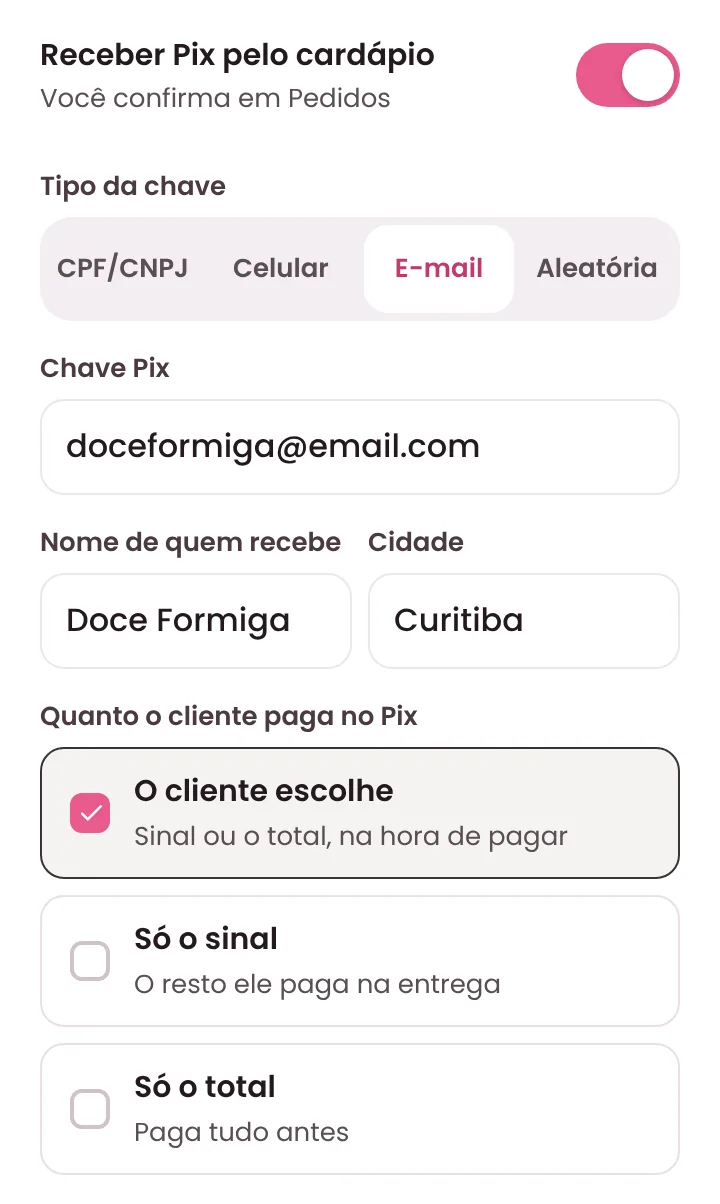
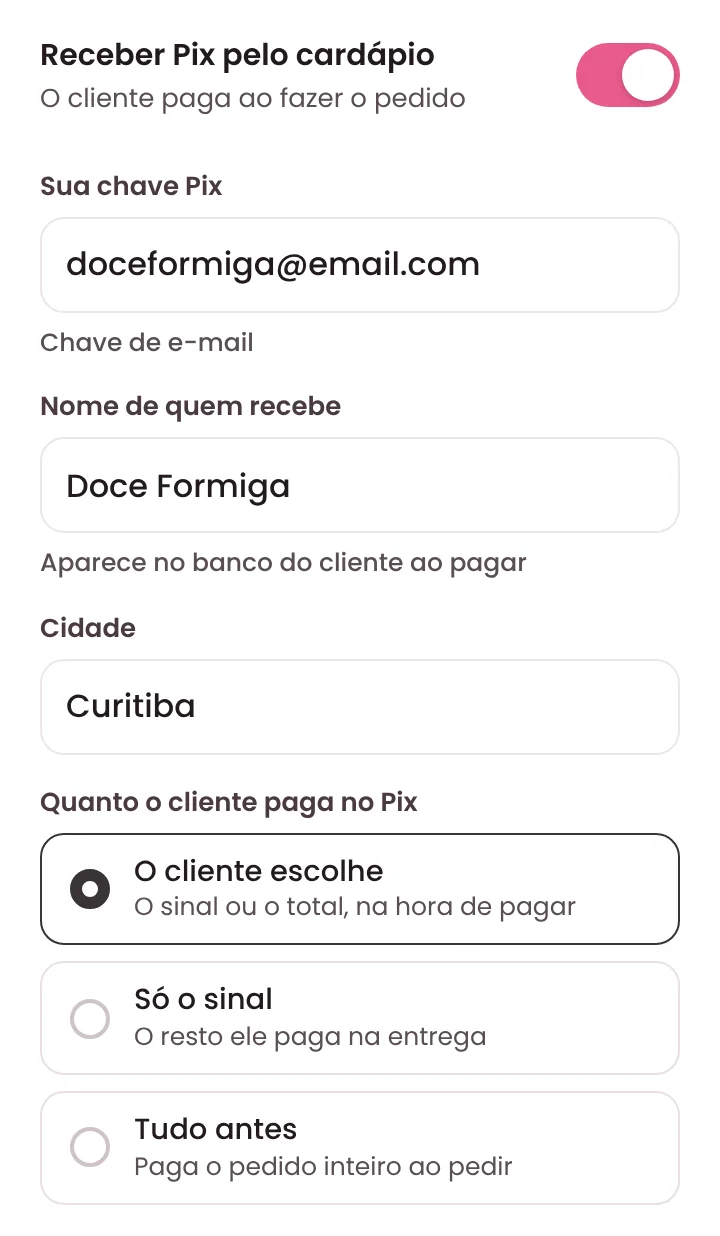
6.10: Pedidos mais limpos, Pix e Descrição mais fáceis, página do PRO corrigida
- Pedidos: "Sem nome" no lugar de "Cliente não informado"
- Botão forte só no que é de hoje, atrasado ou pra aceitar; os de outros dias ficam claros
- Agendados: próximos 7 dias por dia; o resto em "Mais pra frente" (fechado). Buscando ou filtrando, mostra tudo
- Concluídos: últimos 7 dias + "Ver mais antigos" (antes carregava todos os entregues)
- Pix pelo cardápio: o app reconhece o tipo da chave (sem "Tipo da chave"), campos inteiros, escolha em caixinhas
- Sobre a loja: descrição maior, cresce com o texto e o "Gerar com IA" dentro da caixa (igual ao produto)
- PRO: "Complementos sem limite" e "PDFs só com a sua marca" (o grátis também tem os dois)
- Ajuda com as imagens novas

Claude-Session: https://claude.ai/code/session_01Tr1mYrTU9rTShFnbh3vuaV

diff --git a/src/pages/Pedidos.tsx b/src/pages/Pedidos.tsx
@@ -3,7 +3,7 @@ import { COMO_PEDIDOS, TOUR_PEDIDOS } from "@/lib/comoTelas";
 import { compartilharTexto } from "@/lib/compartilharCardapio";
 import { montarMensagem, dadosDoPedido } from '@/lib/mensagens'
 import { useLocation, useNavigate, useNavigationType } from 'react-router-dom'
-import { Cake, CalendarDots, Funnel, Kanban, Lightning, ListBullets, MagnifyingGlass, Plus, Receipt, WarningCircle, X } from '@phosphor-icons/react'
+import { Cake, CalendarDots, CaretDown, Funnel, Kanban, Lightning, ListBullets, MagnifyingGlass, Plus, Receipt, WarningCircle, X } from '@phosphor-icons/react'
 import AppPageHeader from '@/components/AppPageHeader'
 import { Botao, BotaoIcone, Janela, TelaVazia, Titulo, avisar, confirmar } from '@/components/base'
 import FinalizarPedidoSheet from '@/components/pedidos/FinalizarPedidoSheet'
@@ -479,6 +479,11 @@ export default function Pedidos() {
   }, [pedidos, busca, aba, statusSelecionados, periodoFiltro, dataInicio, dataFim, filtroAguardando, filtroAtrasados, hoje, computador]) // "hoje": os filtros de data e de atrasado andam com o dia
 
   // Agrupado por dia: Atrasado, Hoje, Amanhã, os próximos dias, Sem data e Concluídos
+  // (6.10) lista mais curta: agendados mostram os próximos 7 dias (o resto fica em "Mais pra frente", fechado)
+  // e concluídos os últimos 7 dias ("Ver mais antigos" traz mais 30). Buscando ou filtrando, mostra tudo.
+  const [verDepois, setVerDepois] = useState(false)
+  const [diasConcluidos, setDiasConcluidos] = useState(7)
+  const abreTudo = !!busca.trim() || periodoFiltro !== 'todos' || statusSelecionados.length !== STATUS_PADRAO.length || !STATUS_PADRAO.every(x => statusSelecionados.includes(x))
   const agrupar = useCallback((lista: Pedido[], cel = false) => {
     // (11/10) "hoje" vem do useDiaAtual: com a lista aberta de um dia pro outro, os grupos se refazem sozinhos
     const [ah, mh, dh] = hoje.split('-').map(Number)
@@ -503,12 +508,20 @@ export default function Pedidos() {
     add('antes', 'De dias anteriores', passados.filter(p => !pedidoAtrasado(p, hojeIso)))
     add('hoje', `Hoje · ${rot(hojeIso)}`, ativos.filter(p => p.data_entrega === hojeIso))
     add('amanha', `Amanhã · ${rot(amanhaIso)}`, ativos.filter(p => p.data_entrega === amanhaIso))
+    const semanaIso = dataISO(new Date(ah, mh - 1, dh + 6))
+    const porDia = (lst: Pedido[]) => [...new Set(lst.map(p => p.data_entrega))].forEach(d => { const t = rot(d); add('d' + d, t.charAt(0).toUpperCase() + t.slice(1), lst.filter(p => p.data_entrega === d)) })
     const futuros = ativos.filter(p => p.data_entrega && p.data_entrega > amanhaIso)
-    ;[...new Set(futuros.map(p => p.data_entrega))].forEach(d => { const t = rot(d); add('d' + d, t.charAt(0).toUpperCase() + t.slice(1), futuros.filter(p => p.data_entrega === d)) })
+    porDia(futuros.filter(p => abreTudo || p.data_entrega <= semanaIso))
+    const depois = abreTudo ? [] : futuros.filter(p => p.data_entrega > semanaIso)
+    if (depois.length) { if (verDepois) porDia(depois); else g.push({ chave: 'depois', titulo: 'Mais pra frente', itens: depois }) }
     add('semdata', 'Sem data', ativos.filter(p => !p.data_entrega))
-    const fim = lista.filter(terminou).sort((a, b) => -porHora(a, b))
+    // concluídos: só os últimos dias (com 1.500 entregues a lista ficava enorme e lenta)
+    const corte = dataISO(new Date(ah, mh - 1, dh - (diasConcluidos - 1)))
+    const fimTodos = lista.filter(terminou).sort((a, b) => -porHora(a, b))
+    const fim = abreTudo ? fimTodos : fimTodos.filter(p => !p.data_entrega || p.data_entrega.slice(0, 10) >= corte)
+    const fimFora = fimTodos.length - fim.length
     if (!cel) add('concluidos', 'Concluídos', fim)
-    else if (fim.length) {
+    else if (fimTodos.length) {
       // (6.09) celular: Concluídos separado por dia, com "Hoje" sempre em cima (o número da aba é o de hoje)
       const diaDe = (p: Pedido) => String(p.data_entrega || '').slice(0, 10)
       const titulo = (d: string) => {
@@ -522,8 +535,9 @@ export default function Pedidos() {
       // hoje sempre primeiro, mesmo quando tem entrega marcada pra frente
       g.sort((a, b) => Number(b.chave === 'c-hoje') - Number(a.chave === 'c-hoje'))
     }
+    if (fimFora > 0) g.push({ chave: 'antigos', titulo: 'Ver mais antigos', itens: [] })
     return g
-  }, [hoje])
+  }, [hoje, abreTudo, verDepois, diasConcluidos])
   const grupos = useMemo(() => agrupar(pedidosFiltrados), [agrupar, pedidosFiltrados])
   // celular: quantos em cada aba, a aba escolhida (ou a primeira com pedido) e os grupos dela
   const nSit = useMemo(() => {
@@ -560,6 +574,10 @@ export default function Pedidos() {
   const nFiltros = (statusSelecionados.length !== STATUS_PADRAO.length || !STATUS_PADRAO.every(s => statusSelecionados.includes(s)) ? 1 : 0) + (periodoFiltro !== 'todos' ? 1 : 0)
   const filtrando = nFiltros > 0 || !!busca.trim()
   const limparTudo = () => { setBusca(''); setStatusSelecionados(STATUS_PADRAO); setPeriodoFiltro('todos'); setDataInicio(''); setDataFim('') }
+  // (6.10) "Mais pra frente" (fechado) e "Ver mais antigos" no fim da lista
+  const BotaoMais = ({ g }: { g: { chave: string; itens: Pedido[] } }) => g.chave === 'depois'
+    ? <button type="button" className="pd-mais" onClick={() => setVerDepois(true)}><span><b>Mais pra frente</b><small>{g.itens.length === 1 ? '1 pedido' : `${g.itens.length} pedidos`} depois de 7 dias</small></span><CaretDown size={18} weight="bold" aria-hidden="true" /></button>
+    : <button type="button" className="pd-mais pd-mais--link" onClick={() => setDiasConcluidos(d => d + 30)}><b>Ver mais antigos</b></button>
   const nEncomendas = pedidos.filter(p => (p.tipo_venda || 'encomenda') === 'encomenda').length
   const nPronta = pedidos.filter(p => p.tipo_venda === 'pronta_entrega').length
   const sairDoFiltroRapido = () => { setFiltroAguardando(false); setFiltroAtrasados(false); navigate('/pedidos', { replace: true }) }
@@ -665,6 +683,7 @@ export default function Pedidos() {
               <div className="pd-grupos pdk-grupos">
                 {gruposCel.map(g => {
                   const unico = gruposCel.length === 1 && (g.chave === 'aceitar' || g.chave === 'concluidos')
+                  if (g.chave === 'depois' || g.chave === 'antigos') return <BotaoMais key={g.chave} g={g} />
                   return (
                     <section key={g.chave} className="pd-grupo" aria-label={g.titulo}>
                       {g.chave === 'aceitar' ? (
@@ -681,7 +700,7 @@ export default function Pedidos() {
               )
             ) : (
               <div className="pd-grupos">
-                {grupos.map(g => (
+                {grupos.map(g => g.chave === 'depois' || g.chave === 'antigos' ? <BotaoMais key={g.chave} g={g} /> : (
                   <section key={g.chave} className="pd-grupo" aria-label={g.titulo}>
                     <Titulo contagem={g.itens.length} tom={g.chave === 'atrasado' ? 'vermelho' : undefined} apoio={g.chave === 'aceitar' ? (g.itens.length === 1 ? 'Chegou pelo cardápio. Aceite para entrar na sua agenda.' : 'Chegaram pelo cardápio. Aceite para entrar na sua agenda.') : undefined}>{g.titulo}</Titulo>
                     <div className="pdl-tabela" role="table">{g.itens.map(p => <LinhaPedido key={p.id} {...props(p)} comDia={g.chave === 'concluidos' || g.chave === 'semdata' || g.chave === 'antes'} />)}</div>

diff --git a/src/pages/CheckoutConfigPage.tsx b/src/pages/CheckoutConfigPage.tsx
@@ -6,7 +6,7 @@ import { CTA_PRO } from "@/lib/beneficiosPro";
 import { Check, Crown, PencilSimple, Plus, Trash, QrCode, ShareNetwork, Ticket, Truck, Wallet, WarningCircle, PixLogo, Money, CreditCard, Storefront, Moped, Motorcycle, Car, ChatCircleText } from "@phosphor-icons/react"
 import type { Icon } from "@phosphor-icons/react"
 import ListaChaves from "@/components/loja/ListaChaves"
-import { normalizarChave, problemaNaChave, tipoDaChave, type TipoChave } from '@/lib/pix'
+import { adivinharTipo, NOME_TIPO_CHAVE, normalizarChave, problemaNaChave, tipoDaChave, type TipoChave } from '@/lib/pix'
 import { cupomDisponivel, MAX_CUPONS_ATIVOS, regraCupom, textoDesconto } from '@/lib/cupons'
 import type { DadosImagemCupom } from '@/lib/imagemCupom'
 import ImagemCupom from '@/components/marketing/ImagemCupom'
@@ -741,36 +741,29 @@ export default function CheckoutConfigPage({ embutido = false, parte = "tudo", s
         {(!so || so === 'pix') && formasPagamento.includes('pix') && (
         <section className="ep-card">
           <Cabeca Ic={QrCode} titulo="Pix pelo cardápio" apoio="O cliente paga com QR Code" />
-          <Chave on={pixOnline} rotulo="Receber Pix pelo cardápio" apoio={pixOnline ? 'Você confirma em Pedidos' : 'Desligado: paga pelo WhatsApp'} aoMudar={setPixOnline} />
+          <Chave on={pixOnline} rotulo="Receber Pix pelo cardápio" apoio={pixOnline ? 'O cliente paga ao fazer o pedido' : 'Desligado: paga pelo WhatsApp'} aoMudar={setPixOnline} />
           {pixOnline && (
             <div className="ep-pix">
-              <div className="ui-campo">
-                <span className="ui-campo-r" id="ep-pix-tipo"><span>Tipo da chave</span></span>
-                <div className="ep-seg ep-seg--4" role="radiogroup" aria-labelledby="ep-pix-tipo">
-                  {([['cpf', 'CPF/CNPJ'], ['celular', 'Celular'], ['email', 'E-mail'], ['aleatoria', 'Aleatória']] as [TipoChave, string][]).map(([k, n]) => (
-                    <button key={k} type="button" role="radio" aria-checked={pixTipo === k} onClick={() => { if (pixTipo !== k) { setPixTipo(k); setPixChave('') } }}>{n}</button>
-                  ))}
-                </div>
-              </div>
-              <Campo rotulo="Chave Pix" value={pixChave}
-                inputMode={pixTipo === 'cpf' || pixTipo === 'celular' ? 'numeric' : pixTipo === 'email' ? 'email' : 'text'}
-                prefixo={pixTipo === 'celular' ? '+55' : undefined}
-                placeholder={pixTipo === 'cpf' ? 'Só os números' : pixTipo === 'celular' ? '(41) 9 9999-0000' : pixTipo === 'email' ? 'voce@email.com' : 'Cole a chave aqui'}
+              {/* (6.10) sem "Tipo da chave": o app reconhece pelo que foi digitado e mostra embaixo */}
+              <Campo rotulo="Sua chave Pix" value={pixChave} inputMode="text" autoComplete="off" autoCapitalize="off" spellCheck={false}
+                placeholder="CPF, CNPJ, celular, e-mail ou aleatória"
                 erro={pixChave.trim() && problemaNaChave(pixChave, pixTipo) ? problemaNaChave(pixChave, pixTipo) : undefined}
-                onChange={e => setPixChave(e.target.value)} />
-              <div className="ep-g2">
-                <Campo rotulo="Nome de quem recebe" value={pixNome} maxLength={25} onChange={e => setPixNome(e.target.value)} />
-                <Campo rotulo="Cidade" value={pixCidade} maxLength={15} onChange={e => setPixCidade(e.target.value)} />
-              </div>
+                dica={pixChave.trim() ? `Chave de ${pixTipo === 'cpf' && pixChave.replace(/\D/g, '').length === 14 ? 'CNPJ' : NOME_TIPO_CHAVE[pixTipo]}` : 'O tipo da chave o app reconhece sozinho'}
+                onChange={e => { setPixChave(e.target.value); setPixTipo(adivinharTipo(e.target.value)) }} />
+              {pixChave.replace(/\D/g, '').length === 11 && !/[a-z@]/i.test(pixChave) && (
+                <button type="button" className="ep-pix-troca" onClick={() => setPixTipo(pixTipo === 'cpf' ? 'celular' : 'cpf')}>
+                  {pixTipo === 'cpf' ? 'É um celular? Toque aqui' : 'É um CPF? Toque aqui'}
+                </button>
+              )}
+              <Campo rotulo="Nome de quem recebe" value={pixNome} maxLength={25} dica="Aparece no banco do cliente ao pagar" onChange={e => setPixNome(e.target.value)} />
+              <Campo rotulo="Cidade" value={pixCidade} maxLength={15} onChange={e => setPixCidade(e.target.value)} />
               <div className="ui-campo">
                 <span className="ui-campo-r" id="ep-pix-modo"><span>Quanto o cliente paga no Pix</span></span>
-                <div className="ppf-mos ppf-mos--chk ep-pix-modo" role="radiogroup" aria-labelledby="ep-pix-modo">
-                  {([['escolha', 'O cliente escolhe', 'Sinal ou o total, na hora de pagar'], ['sinal', 'Só o sinal', 'O resto ele paga na entrega'], ['total', 'Só o total', 'Paga tudo antes']] as const).map(([k, n, sub]) => (
-                    <button key={k} type="button" role="radio" aria-checked={pixModo === k} className={pixModo === k ? 'on' : ''} onClick={() => setPixModo(k)}>
-                      <i aria-hidden="true">{pixModo === k && <Check size={13} weight="bold" />}</i><span><b>{n}</b><small><em>{sub}</em></small></span>
-                    </button>
-                  ))}
-                </div>
+                <CaixasEscolha rotuloId="ep-pix-modo" valor={pixModo} onMudar={v => setPixModo(v)} opcoes={[
+                  { v: 'escolha' as const, t: 'O cliente escolhe', sub: 'O sinal ou o total, na hora de pagar' },
+                  { v: 'sinal' as const, t: 'Só o sinal', sub: 'O resto ele paga na entrega' },
+                  { v: 'total' as const, t: 'Tudo antes', sub: 'Paga o pedido inteiro ao pedir' },
+                ]} />
               </div>
               {pixModo !== 'total' && (
                 <div className="ui-campo">

diff --git a/src/components/pedidos/CartaoPedido.tsx b/src/components/pedidos/CartaoPedido.tsx
@@ -4,7 +4,7 @@ import type { KeyboardEvent, MouseEvent, ReactNode } from 'react'
 import { ArrowRight, Bag, CaretDown } from '@phosphor-icons/react'
 import { Botao, Linha } from '@/components/base'
 import type { Pedido } from './pedidoTexto'
-import { pixDoPedido, acaoDe, atrasado, precisaAceitar, chegouHa, criadoEm, dataCurta, dataLonga, enderecoCurto, formaDoItem, fotoDoPedido, horaCurta, itensOrdenados, nomeCliente, nomeDoItem, partesDaQtd, recebidoPedido, resumoItens, rs, saldoPedido, situacaoDe, telefoneBonito, grupoDoStatus } from './pedidoTexto'
+import { pixDoPedido, acaoDe, atrasado, precisaAceitar, chegouHa, criadoEm, dataCurta, dataLonga, enderecoCurto, formaDoItem, fotoDoPedido, horaCurta, itensOrdenados, nomeCliente, nomeDoItem, partesDaQtd, recebidoPedido, resumoItens, rs, saldoPedido, situacaoDe, telefoneBonito, grupoDoStatus, passoDeDepois } from './pedidoTexto'
 import { r2 } from '@/lib/moeda'
 
 /**
@@ -100,7 +100,7 @@ export function CartaoPedido({ p, aoAbrir, aoAvancar, aoMenu, aoEndereco, mudand
       <div className="pdc-linhas">
         <div className="pdc-l1">
           <Linha rotulo="Situação" tom={sit.tom}>{sit.nome}</Linha>
-          {acao && <Botao className={aceitar ? undefined : 'pd-passo'} tamanho="p" carregando={mudando} onClick={parar(() => aoAvancar(p))}>{acao.rotulo}</Botao>}
+          {acao && <Botao className={aceitar ? undefined : `pd-passo${passoDeDepois(p) ? ' pd-passo--depois' : ''}`} tamanho="p" carregando={mudando} onClick={parar(() => aoAvancar(p))}>{acao.rotulo}</Botao>}
         </div>
         {!cancelado && <Linha rotulo="Pagamento" tom={textoPagamento(p, falta).tom}>{textoPagamento(p, falta).texto}</Linha>}
         <Linha rotulo={entrega ? 'Entrega' : 'Retirada'} tom={atr ? 'vermelho' : undefined}>{dataLonga(p.data_entrega, p.horario_entrega)}</Linha>
@@ -167,7 +167,7 @@ export function LinhaPedido({ p, aoAbrir, aoAvancar, aoMenu, aoEndereco, mudando
       </p>
       <div className="pdl-acao" role="cell">
         {aceitar && aoRecusar && <Botao className="pd-recusar" variante="secundario" tamanho="p" disabled={mudando} onClick={parar(() => aoRecusar(p))}>Recusar</Botao>}
-        {acao && <Botao className={aceitar ? undefined : 'pd-passo'} tamanho="p" carregando={mudando} onClick={parar(() => aoAvancar(p))}>{acao.rotulo}</Botao>}
+        {acao && <Botao className={aceitar ? undefined : `pd-passo${passoDeDepois(p) ? ' pd-passo--depois' : ''}`} tamanho="p" carregando={mudando} onClick={parar(() => aoAvancar(p))}>{acao.rotulo}</Botao>}
       </div>
       <div role="cell">
         <MenuPedido p={p} aoEscolher={aoMenu} />
@@ -206,7 +206,7 @@ export function LinhaCompacta({ p, aoAbrir, aoAvancar, mudando }: Props) {
       </div>
       <div className="pdk-dir">
         <b className="pdk-v">{rs(p.valor_total)}</b>
-        {acao && <Botao className={aceitar ? 'pdk-bt' : 'pdk-bt pd-passo'} tamanho="p" carregando={mudando} onClick={parar(() => aoAvancar(p))}>{rot}</Botao>}
+        {acao && <Botao className={aceitar ? 'pdk-bt' : `pdk-bt pd-passo${passoDeDepois(p) ? ' pd-passo--depois' : ''}`} tamanho="p" carregando={mudando} onClick={parar(() => aoAvancar(p))}>{rot}</Botao>}
       </div>
     </article>
   )

diff --git a/src/lib/beneficiosPro.ts b/src/lib/beneficiosPro.ts
@@ -12,7 +12,8 @@ export const BENEFICIOS: Beneficio[] = [
   [ChartLineUp, "Saiba quanto você lucra de verdade", "Relatórios de lucratividade por produto e por mês, para decidir com segurança.", "Lucro de verdade", "Lucratividade de cada produto", "/lucratividade"],
   [Robot, "A Doo IA sem aperto", "No PRO a Doo IA responde até 150 mensagens por dia e cria imagens. No grátis são 10 mensagens por mês.", "Doo IA 150 por dia", "E cria imagens", "doo"],
   [FileText, "Orçamentos que o cliente aprova", "Monte a proposta, mande o link e o cliente aprova pelo celular. Aprovou, vira pedido.", "Orçamentos", "Proposta com link para aprovar", "/orcamentos"],
-  [Stack, "Complementos no cardápio", "Topo de bolo, velas e outros extras que o cliente marca no produto, com foto ou frase.", "Complementos", "Extras que o cliente marca", "/complementos"],
+  // (6.10) o grátis também tem complementos (até 3) e PDFs (com o "Feito com Doonly"): o texto diz o que o PRO muda de verdade
+  [Stack, "Complementos sem limite", "Topo de bolo, velas e outros extras que o cliente marca no produto. No grátis, até 3. No PRO, quantos quiser.", "Complementos sem limite", "Extras que o cliente marca", "/complementos"],
   [Tag, "Cupons sem limite", "No grátis, 1 cupom ativo. No PRO, quantos quiser, e os 2 mais novos aparecem no topo do cardápio.", "Cupons sem limite", "E os 2 mais novos no topo", "/marketing"],
   [ChatCircleText, "Mensagens do seu jeito", "Troque os textos prontos do WhatsApp e anuncie com o Pixel do Facebook.", "Mensagens e Pixel", "Textos do seu jeito e anúncios", "/configuracoes/mensagens"],
   [Palette, "Cardápio com a cara da sua marca", "Qualquer cor no topo da loja, até 4 fotos por produto e um link com o nome da sua loja.", "Cardápio com a sua marca", "Qualquer cor e até 4 fotos", "/cardapio-design"],
@@ -21,7 +22,7 @@ export const BENEFICIOS: Beneficio[] = [
   [Crown, "Sem marca d'água", "O cardápio só com a sua marca, sem o \"Feito com Doonly\".", "Sem marca d'água", "Só a sua marca no cardápio", null],
   [Infinito, "Todo o cardápio no ar", "No grátis, até 10 produtos no cardápio ao mesmo tempo. No PRO, todos.", "Produtos sem limite", "Todo o cardápio no ar", null],
   [AddressBook, "Importe clientes dos contatos", "Traga os contatos direto da agenda do celular (Android).", "Importar contatos", "Traga da agenda do celular", "/clientes"],
-  [FilePdf, "Relatórios em PDF", "Agenda do dia, pedidos e fichas técnicas prontos para mandar ou imprimir.", "Relatórios em PDF", "Agenda, pedidos e fichas", null],
+  [FilePdf, "PDFs só com a sua marca", "Pedidos, agenda do dia e fichas técnicas sem o \"Feito com Doonly\" no rodapé.", "PDFs com a sua marca", "Sem o \"Feito com Doonly\"", null],
 ];
 
 /** (31/10 · 5.97) O PRO começa com 7 dias grátis na Hotmart (pede o cartão e só cobra no 8º dia).

diff --git a/src/lib/pix.ts b/src/lib/pix.ts
@@ -31,6 +31,22 @@ export function tipoDaChave(chave: string): TipoChave {
   return 'cpf'
 }
 
+/**
+ * (6.10) Descobre o tipo enquanto a pessoa digita (a tela não pergunta mais o tipo da chave).
+ * 11 números: CPF se os dígitos fecham, senão celular. Tem "@": e-mail. Letras e números com tracinho: aleatória.
+ */
+export function adivinharTipo(chave: string): TipoChave {
+  const c = String(chave || '').trim()
+  if (c.includes('@')) return 'email'
+  if (/[a-z]/i.test(c)) return /^[0-9a-f-]+$/i.test(c) ? 'aleatoria' : 'email'
+  const d = c.replace(/\D/g, '')
+  if (c.startsWith('+') || c.includes('(') || /^55\d{10,11}$/.test(d)) return 'celular'
+  if (d.length === 11) return cpfValido(d) ? 'cpf' : 'celular'
+  if (d.length === 10) return 'celular'
+  return 'cpf'
+}
+export const NOME_TIPO_CHAVE: Record<TipoChave, string> = { cpf: 'CPF', celular: 'celular', email: 'e-mail', aleatoria: 'chave aleatória' }
+
 /** Dígitos verificadores do CPF */
 export function cpfValido(d: string): boolean {
   if (!/^\d{11}$/.test(d) || /^(\d)\1{10}$/.test(d)) return false
@@ -48,9 +64,9 @@ export function cnpjValido(d: string): boolean {
 export function problemaNaChave(chave: string, tipo: TipoChave): string {
   const c = normalizarChave(chave, tipo)
   if (!c) return 'Escreva a chave Pix'
-  if (tipo === 'cpf' && c.length !== 11 && c.length !== 14) return 'CPF tem 11 números e CNPJ tem 14'
+  if (tipo === 'cpf' && c.length !== 11 && c.length !== 14) return 'Confira a chave: CPF tem 11 números, CNPJ 14 e celular vai com DDD'
   // (27/10) confere os dígitos: o celular (11 números) passava como CPF e o Pix saía com uma chave que não existe
-  if (tipo === 'cpf' && c.length === 11 && !cpfValido(c)) return 'CPF inválido. Se for celular, use a aba Celular'
+  if (tipo === 'cpf' && c.length === 11 && !cpfValido(c)) return 'CPF inválido. Confira os números'
   if (tipo === 'cpf' && c.length === 14 && !cnpjValido(c)) return 'CNPJ inválido. Confira os números'
   if (tipo === 'celular' && !/^\+55\d{10,11}$/.test(c)) return 'Coloque o celular com DDD'
   if (tipo === 'email' && !/^[^\s@]+@[^\s@]+\.[^\s@]+$/.test(c)) return 'Confira o e-mail'

diff --git a/src/components/pedidos/QuadroPedidos.tsx b/src/components/pedidos/QuadroPedidos.tsx
@@ -4,7 +4,7 @@ import type { ReactNode } from 'react'
 import { Storefront, Truck, Wallet } from '@phosphor-icons/react'
 import { Botao, Titulo } from '@/components/base'
 import type { Pedido } from './pedidoTexto'
-import { SITUACOES, pixDoPedido, acaoDe, precisaAceitar, atrasado, dataCurta, grupoDoStatus, nomeCliente, resumoItens, rs, saldoPedido } from './pedidoTexto'
+import { SITUACOES, pixDoPedido, acaoDe, precisaAceitar, atrasado, dataCurta, grupoDoStatus, nomeCliente, resumoItens, rs, saldoPedido, passoDeDepois } from './pedidoTexto'
 
 /**
  * Quadro (08/10 · 3.11 — antes "Kanban"): uma coluna por situação, só no tablet e no computador.
@@ -86,7 +86,7 @@ export default function QuadroPedidos({ pedidos, aoAbrir, aoAvancar, aoMover, mu
                     <LinhaIcone icone={p.tipo_entrega === 'entrega' ? <Truck size={16} aria-hidden="true" /> : <Storefront size={16} aria-hidden="true" />} rotulo={p.tipo_entrega === 'entrega' ? 'Entrega' : 'Retirada'} tom={atr ? 'vermelho' : undefined}>{dataCurta(p.data_entrega, p.horario_entrega)}</LinhaIcone>
                     {!cancelado && (() => { const px = pixDoPedido(p); const pg = (tom: string, txt: ReactNode) => <LinhaIcone icone={<Wallet size={16} aria-hidden="true" />} rotulo="Pagamento" tom={tom}>{txt}</LinhaIcone>; return px ? pg('laranja', px.estado === 'conferir' ? 'Pix a conferir' : 'Aguardando Pix') : falta > 0.009 ? pg('laranja', `Falta ${rs(falta, true)}`) : pg('verde', 'Pago') })()}
                   </div>
-                  {acao && <Botao className={precisaAceitar(p) ? undefined : 'pd-passo'} tamanho="p" cheio carregando={mudando === p.id} onClick={e => { e.stopPropagation(); aoAvancar(p) }}>{acao.rotulo}</Botao>}
+                  {acao && <Botao className={precisaAceitar(p) ? undefined : `pd-passo${passoDeDepois(p) ? ' pd-passo--depois' : ''}`} tamanho="p" cheio carregando={mudando === p.id} onClick={e => { e.stopPropagation(); aoAvancar(p) }}>{acao.rotulo}</Botao>}
                 </article>
               )
             })}

diff --git a/src/pages/DadosLoja.tsx b/src/pages/DadosLoja.tsx
@@ -206,7 +206,7 @@ export default function DadosLoja({ embutido = false, extras }: { embutido?: boo
     if (!t) return;
     t.style.height = "auto";
     t.style.height = `${t.scrollHeight + 2}px`;
-  }, [descricao, loading]);
+  }); // (6.10) a cada desenho: na janela "Sobre a loja" o campo aparece depois e ficava com a altura de 3 linhas, cortando o texto
 
   // (17/10) veio do antigo "Entrega e pagamento": desce direto pra essa parte
   const irEntrega = (useLocation().state as EstadoNavegacao)?.secao === "entrega";
@@ -488,11 +488,14 @@ export default function DadosLoja({ embutido = false, extras }: { embutido?: boo
             )}
           </div>
           <div id="dl-desc" className="dl-desc" ref={descRef}>
-            <CampoArea id="dl-in-desc" rotulo="Descrição" value={descricao} maxLength={200} rows={3} autoComplete="off"
-              placeholder={EXEMPLO_DESCRICAO} onChange={(e) => setDescricao(e.target.value)} />
+            {/* (6.10) igual à descrição do produto: caixa maior e o "Gerar com IA" dentro, no canto de baixo */}
+            <div className="dl-desc-caixa">
+              <CampoArea id="dl-in-desc" rotulo="Descrição" value={descricao} maxLength={200} rows={5} autoComplete="off"
+                placeholder={EXEMPLO_DESCRICAO} onChange={(e) => setDescricao(e.target.value)} />
+              <span className="dl-desc-ia"><BotaoIA carregando={gerando} onClick={gerarDescricao} /></span>
+            </div>
             <div className="dl-desc-pe">
               <small>{descricao.length} de 200 caracteres</small>
-              <BotaoIA carregando={gerando} onClick={gerarDescricao} />
             </div>
           </div>
           </>)}

diff --git a/src/components/pedidos/pedidos.css b/src/components/pedidos/pedidos.css
@@ -224,3 +224,13 @@
 @media (max-width: 600px) { .pdk-aba-l { display: none; } .pdk-aba-c { display: inline; } }
 /* (6.09) Concluídos no celular: hoje sem entrega ainda */
 .pdk-nada { margin: 0 0 4px; padding: 14px 16px; border: 1px dashed var(--ui-borda); border-radius: var(--ui-raio-cartao); font-size: 14px; color: var(--ui-texto-2); }
+/* (6.10) "Mais pra frente" (pedidos depois de 7 dias, fechado) e "Ver mais antigos" (concluídos) */
+.pd-mais { display: flex; align-items: center; justify-content: space-between; gap: 12px; width: 100%; min-height: 60px; margin: 0 0 4px; padding: 12px 16px; border: 1px solid var(--ui-borda); border-radius: var(--ui-raio-cartao); background: var(--ui-branco); color: var(--ui-texto); font-family: inherit; text-align: left; cursor: pointer; }
+.pd-mais span { display: flex; flex-direction: column; gap: 2px; min-width: 0; }
+.pd-mais b { font-size: 15px; font-weight: 600; }
+.pd-mais small { font-size: 13px; color: var(--ui-texto-2); white-space: nowrap; overflow: hidden; text-overflow: ellipsis; }
+.pd-mais svg { flex: none; color: var(--ui-texto-2); }
+.pd-mais--link { justify-content: center; min-height: 48px; border: 0; background: none; color: var(--ui-rosa-escuro); }
+@media (hover: hover) { .pd-mais:hover { background: var(--ui-cinza); } .pd-mais--link:hover { background: none; text-decoration: underline; } }
+/* (6.10) passo de um pedido de outro dia: botão claro (o escuro fica pro que é de hoje ou está atrasado) */
+.ui-bt.pd-passo.pd-passo--depois { --bt-fundo: var(--ui-cinza); --bt-cor: var(--ui-cinza-texto); --bt-sombra: transparent; box-shadow: none; }

diff --git a/src/components/pedidos/pedidoTexto.ts b/src/components/pedidos/pedidoTexto.ts
@@ -226,7 +226,15 @@ export function nomeDeProduto(s: string): string {
   if (t === t.toUpperCase() && /[A-ZÀ-Ú]/.test(t)) return t.charAt(0) + t.slice(1).toLowerCase()
   return t.charAt(0).toUpperCase() + t.slice(1)
 }
-export const nomeCliente = (p: Pedido) => (p.cliente_nome ? nomeDeGente(p.cliente_nome) : 'Cliente não informado')
+// (6.10) "Sem nome" no lugar de "Cliente não informado" (cortado no celular parecia erro)
+export const nomeCliente = (p: Pedido) => (p.cliente_nome?.trim() ? nomeDeGente(p.cliente_nome) : 'Sem nome')
+/** (6.10) O passo de um pedido de outro dia (e que não está atrasado nem pra aceitar) usa o botão claro */
+export function passoDeDepois(p: Pedido): boolean {
+  if (precisaAceitar(p) || atrasado(p) || !p.data_entrega) return false
+  const d = new Date()
+  const hoje = `${d.getFullYear()}-${String(d.getMonth() + 1).padStart(2, '0')}-${String(d.getDate()).padStart(2, '0')}`
+  return p.data_entrega.slice(0, 10) > hoje
+}
 
 export function itensOrdenados(p: Pedido): PedidoItem[] {
   return [...(p.pedido_itens || [])].sort((a, b) => (b.valor_unitario || 0) * (b.quantidade || 1) - (a.valor_unitario || 0) * (a.quantidade || 1))

diff --git a/src/pages/dadosLoja.css b/src/pages/dadosLoja.css
@@ -24,7 +24,9 @@
 
 /* campos */
 .dl-zap { color: #15803D; }
-.dl-desc textarea { resize: none; overflow: hidden; min-height: 84px; }
+.dl-desc textarea { resize: none; overflow-y: auto; min-height: 150px; padding-bottom: 60px !important; }
+.dl-desc-caixa { position: relative; }
+.dl-desc-ia { position: absolute; right: 10px; bottom: 10px; }
 /* (16/10) contador e "Escrever com IA" na mesma linha, embaixo do campo (antes o botão flutuava em cima) */
 .dl-desc-pe { display: flex; align-items: center; justify-content: space-between; gap: 8px; margin-top: 4px; }
 .dl-desc-pe small { font-size: 12.5px; color: var(--ui-texto-3); white-space: nowrap; }

diff --git a/src/pages/Agenda.tsx b/src/pages/Agenda.tsx
@@ -806,7 +806,7 @@ function CartaoAgenda({ p, ocupado, aoAbrir, itensMenu, aoPronto, aoWhats }: { p
     : falta <= 0.009 ? { t: "Pago", tom: "verde" as const }
     : recebido > 0 ? { t: `Falta ${rs(falta).replace(" ", "\u00A0")} · sinal pago`, tom: "laranja" as const } // (27/10) o que falta vem primeiro: com valor de 4 dígitos o fim era cortado
     : { t: `Falta receber ${rs(falta)}`, tom: "laranja" as const };
-  const nome = p.cliente_nome ? nomeDeGente(p.cliente_nome) : "Cliente não informado";
+  const nome = p.cliente_nome?.trim() ? nomeDeGente(p.cliente_nome) : "Sem nome";
   const ref = useRef<HTMLElement>(null);
 
   return (

diff --git a/src/lib/ajuda.ts b/src/lib/ajuda.ts
@@ -659,8 +659,8 @@ export const ARTIGOS: ArtigoAjuda[] = [
         texto: ['Toque em **Pix pelo cardápio**.'],
         imagens: [{ src: '/ajuda/loja-pix.webp', alt: 'Janela Pix pelo cardápio com a chave e o sinal', marcas: [
           'Ligue o **Pix pelo cardápio**.',
-          'O **tipo da chave**.',
-          'A **chave Pix**.',
+          'A **chave Pix**: o tipo o app reconhece sozinho.',
+          'O **nome** que aparece no banco do cliente.',
           'Sinal, total ou **o cliente escolhe**.',
         ] }],
         dica: 'Você confere o Pix em **Pedidos**.',
